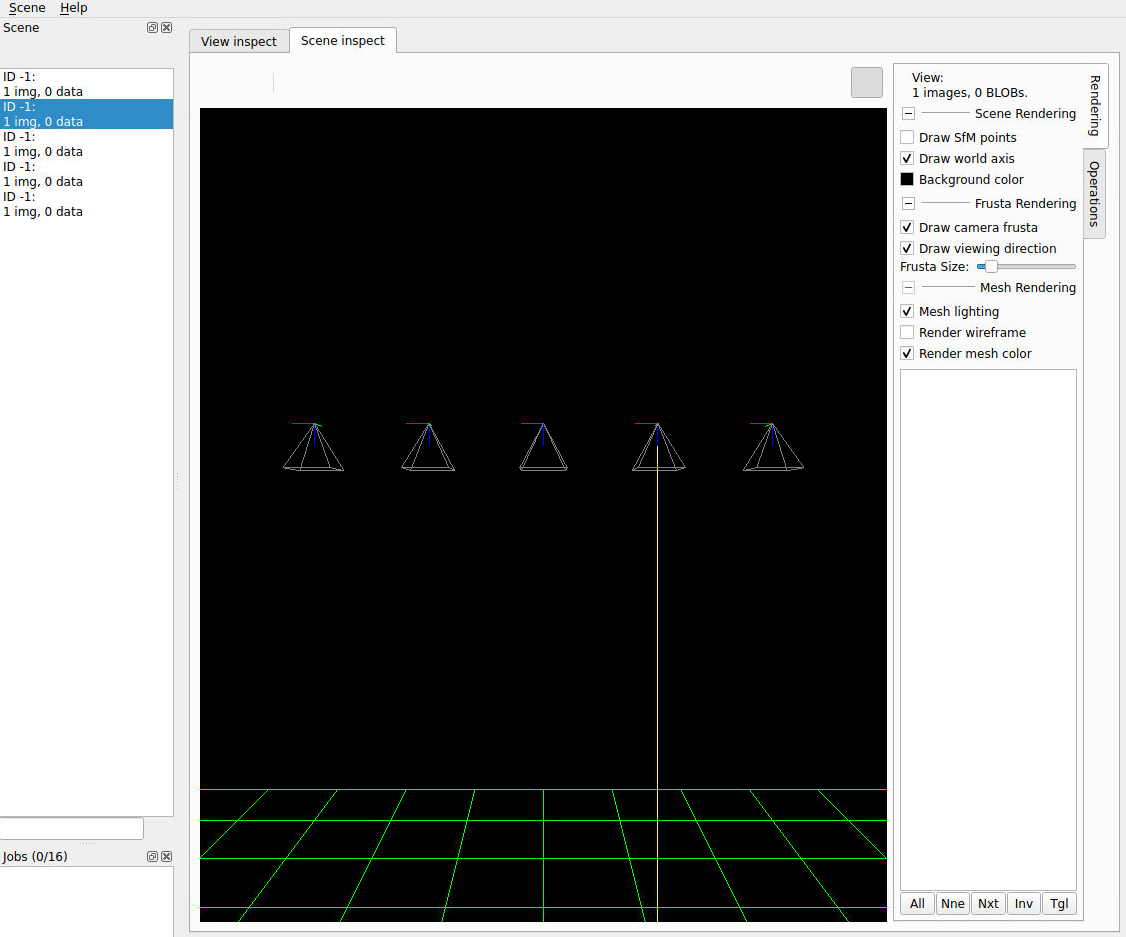
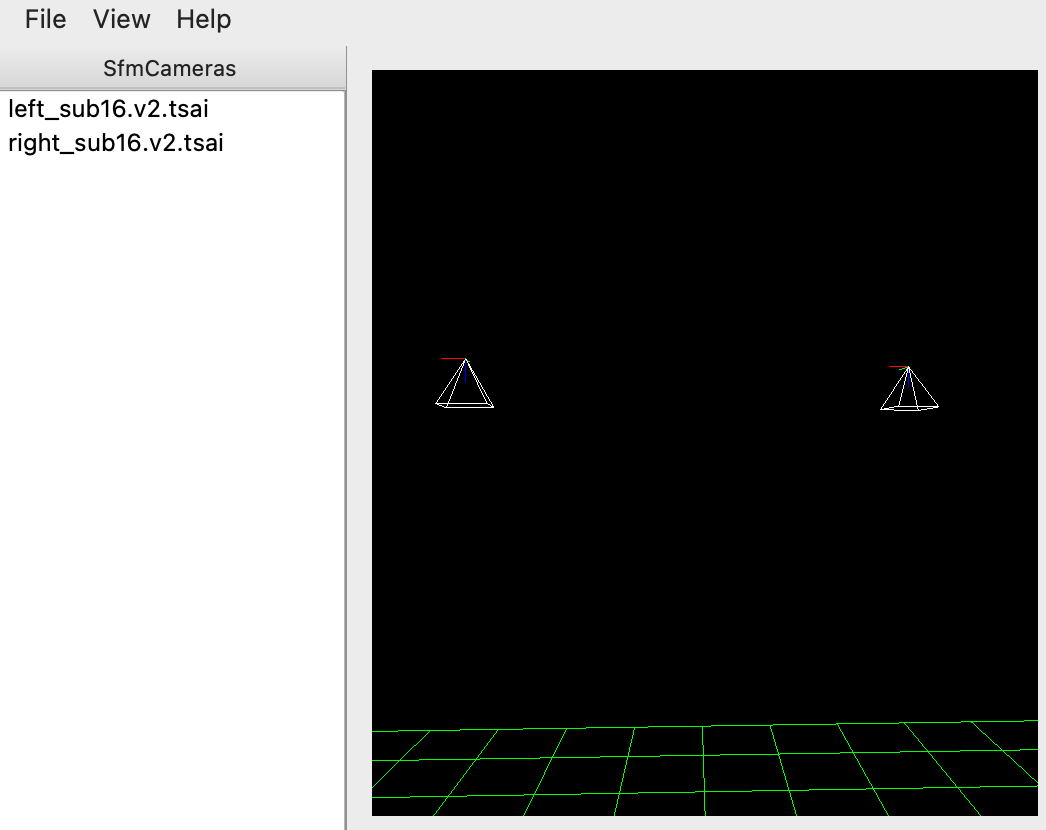
Update sfm_view screenshot, docs, and NEWS placement
Update screenshot to show cameras-only mode. Simplify RST description
to say "based on" MVE rather than "modified version". Update caption.
Move NEWS entry after non-bulleted items.

diff --git a/docs/tools/sfm_view.rst b/docs/tools/sfm_view.rst
@@ -6,9 +6,8 @@ sfm_view
 The ``sfm_view`` program displays the positions and orientations of a set of
 orbital Pinhole camera models (:numref:`pinholemodels`) relative to the ground. 
 
-This program is a modified version of `umve
-<https://github.com/simonfuhrmann/mve>`_, by Simon Fuhrmann. It is still in
-development and not all features of umve are available yet.
+This program is based on `umve
+<https://github.com/simonfuhrmann/mve>`_, by Simon Fuhrmann.
 
 The cameras are represented as pyramids (the pyramid tip is the camera center
 and the base is the sensor plane), and the ground as shown as a plane. The
@@ -26,10 +25,10 @@ Zooming and scene rotation are done with the computer mouse.
    :name: nadir_sfm_view_illustration
    :alt:  Illustration of ``sfm_view``
 
-   Illustration of ``sfm_view`` showing nadir-pointing cameras. The entries in
-   the left tab are in the same order as the cameras specified on the
-   command line. Clicking on an entry highlights that camera's view direction.
-   Synthetic cameras can be created with ``sat_sim`` (:numref:`sat_sim`).
+   Illustration showing two cameras pointing generally downward. The left panel
+   lists the camera file names. Clicking on an entry highlights that camera's
+   view direction. Synthetic cameras can be created with ``sat_sim``
+   (:numref:`sat_sim`).
 
 Example
 ^^^^^^^

diff --git a/NEWS.rst b/NEWS.rst
@@ -1,11 +1,6 @@
 Changes since last release
 --------------------------
 
-sfm_view (:numref:`sfm_view`):
-  * Brought the source code into the ASP repository from the external
-    MultiView dependency.
-  * Input images are no longer required. Only camera files are needed.
-
 Added a new program for distributed stereo processing across computing nodes
   (:numref:`stereo_dist`).
 
@@ -19,6 +14,11 @@ patches with different parameter combinations (:numref:`stereo_sweep`).
 
 Added the ``asp_plot`` package for generating diagnostic plots and PDF reports
 from ASP outputs (:numref:`asp_plot`).
+
+sfm_view (:numref:`sfm_view`):
+  * Brought the source code into the ASP repository from the external
+    MultiView dependency.
+  * Input images are no longer required. Only camera files are needed.
 
 aster2asp (:numref:`aster2asp`):
   * Added support for ASTER Level 1A V004 HDF format.
